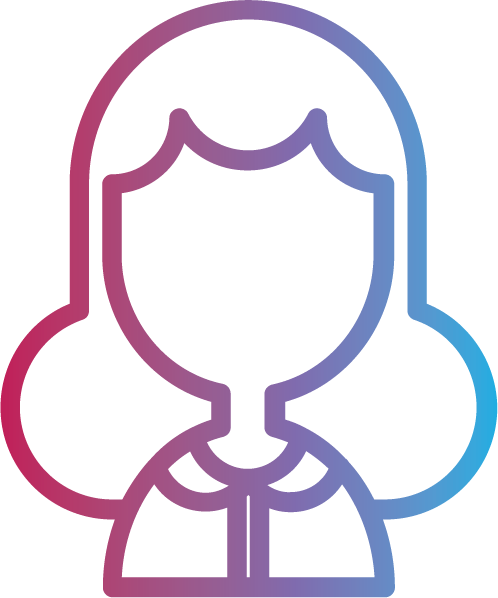
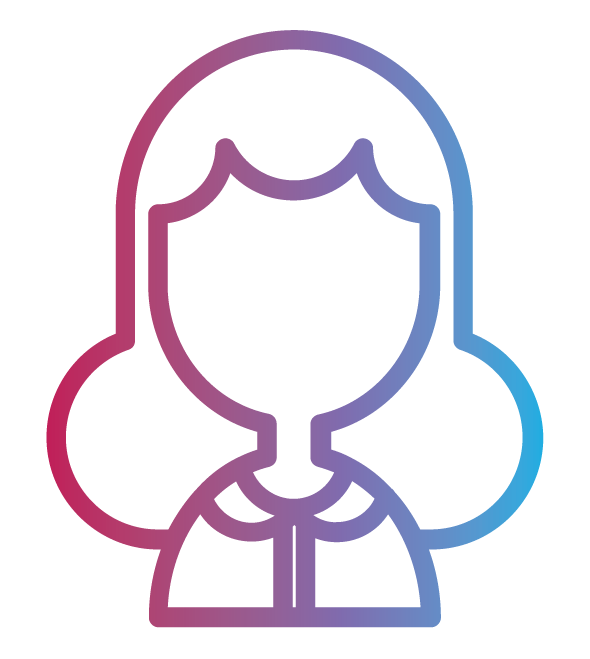
fix/dashboard - change placeholder images file and style SparksNetw-110209  [UI Design] fix/dashboard

diff --git a/functions/client/src/assets/css/style.scss b/functions/client/src/assets/css/style.scss
@@ -1361,11 +1361,16 @@ label {
             .img-circle {
                 height: 100%;
                 width: 100%;
-                background-color: #FFF;
-                background-size: cover !important;
+                background-color: #FFF !important;
+                background-size: 92% !important;
                 background-repeat: no-repeat !important;
+                background-position: 5px center !important;
                 margin: 0 auto;
                 @include box-shadow-multiple(inset 12px 12px 2px -3px rgba(38, 172, 223, 0.26), inset 0px 0px 2px 0px rgba(0, 0, 0, 0.5), inset 3px 3px 2px 2px rgba(172, 55, 117, 0.26) );
+                &.img-isauthed{
+                    background-size: 100% !important;
+                    background-position: 0 center !important;
+                }
             }
             .profile-score {
                 color: $base-dark;

diff --git a/functions/client/src/app/shared/snui/user-header/user-header.component.html b/functions/client/src/app/shared/snui/user-header/user-header.component.html
@@ -10,7 +10,7 @@
         </div>
         <div class="col-xs-4 text-center">
           <div class="profile-img">
-            <div class="img-responsive img-circle" [ngStyle]="{ 'background': 'url(' + imageUrl + ')'}">
+            <div class="img-responsive img-circle" [class.img-isauthed]="isAuthed" [ngStyle]="{ 'background': 'url(' + imageUrl + ')'}">
               <div *ngIf='profileScore' class="profile-score">{{profileScore}}</div>
             </div>
           </div>
